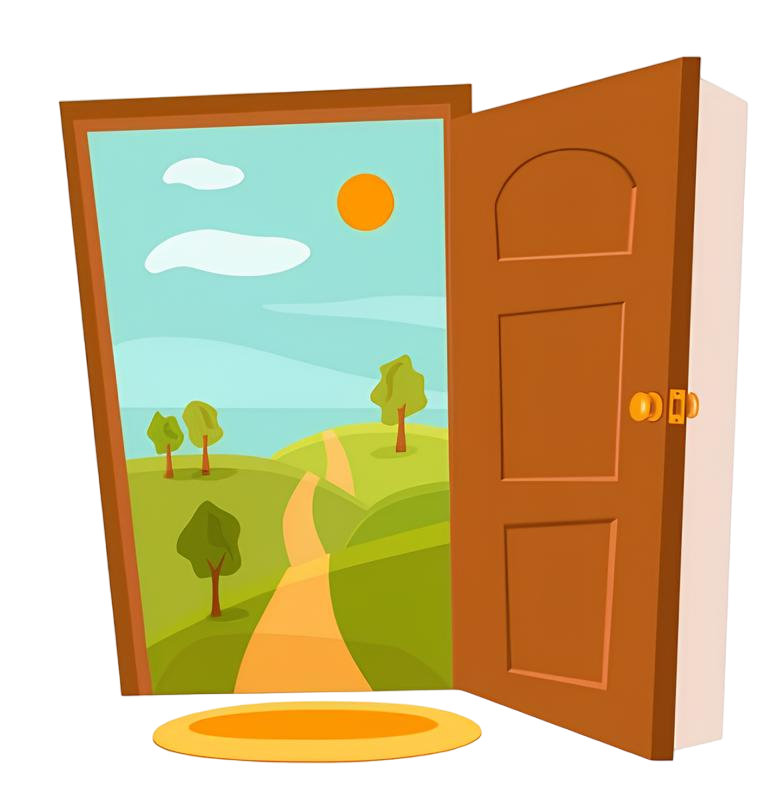
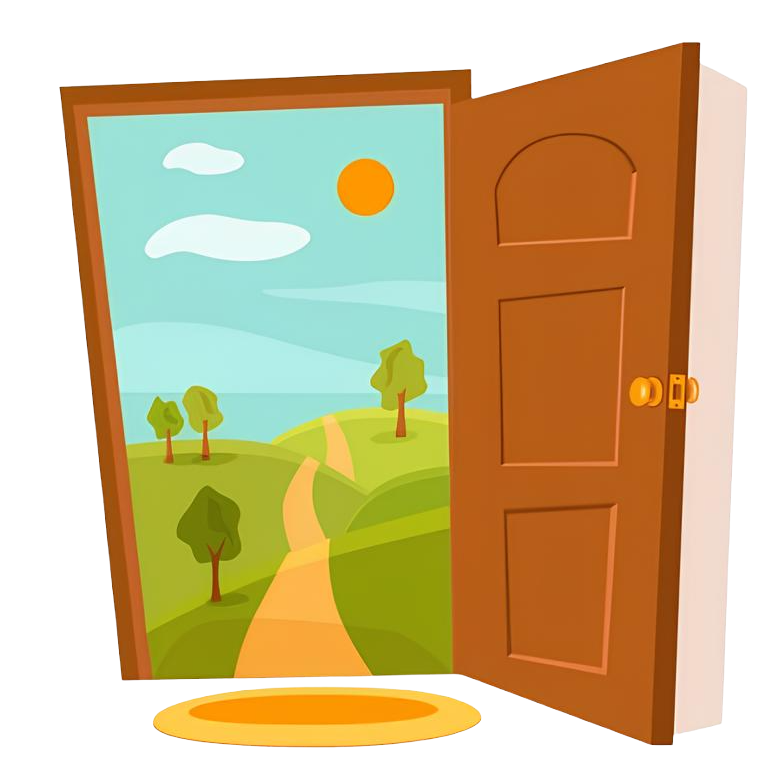
Overview page polished
Finished animations + transitions for the overview page

diff --git a/styles/overview.css b/styles/overview.css
@@ -3,7 +3,15 @@ body {
     font-family: "Patrick Hand", cursive;
     font-weight: 400;
     font-style: normal;
-    background-color: #0999bd;
+    background-color: #3f91a5;
+}
+
+#floor {
+    position: absolute;
+    bottom: 0;
+    background-color: #D2B48C; /* light brown color */
+    height: 20vh;
+    width: 100%;
 }
 
 .bubblegum-sans-regular {
@@ -18,20 +26,107 @@ body {
     justify-content: flex-end; /* Align speech container to the right */
     align-items: flex-start; /* Align speech container to the bottom */
     height: 100vh;
+    pointer-events: none; 
 }
 
 .door-container {
-    display: flex;
-    justify-content: center; /* Center the image horizontally */
-    align-items: center; /* Center the image vertically */
-    width: 60%; /* Adjust the width of the door container */
+    position: absolute;
     height: 100%;
+    min-width: 60%;
 }
 
-.door-image {
-    max-width: 100%;
-    height: auto;
+#door-image {
+    position: absolute;
+    height: 80vh;
+    cursor: pointer;
+    top: 10%;
+    left: 50%;
+    transform: translateX(-50%);
 }
+
+#donovan-image {
+    position: absolute;
+    height: 55vh;
+    bottom: 15%;
+    left: 42%;
+    transform: translateX(-50%);
+    display: none;
+}
+
+.knock {
+    position: absolute;
+    bottom: 70vh;
+    left: 50%;
+    font-size: 30px;
+    font-family: "Bungee", sans-serif;
+    font-weight: 400;
+    font-style: normal;
+    color: #fff;
+    opacity: 0; /* Initially hidden */
+    animation: knockAnimation 3s infinite; /* Apply animation */
+}
+.knock1 {
+    animation-delay: 0s;
+}
+.knock2 {
+    animation: knockAnimation2 3s infinite; /* Apply animation */
+    animation-delay: 0.5s;
+}
+.knock3 {
+    animation: knockAnimation3 3s infinite; /* Apply animation */
+    animation-delay: 1s;
+}
+
+@keyframes knockAnimation {
+    0% {
+        opacity: 0; /* Start with opacity 0 */
+        transform: translate(0, 0); /* Start from top right corner */
+    }
+    10% {
+        opacity: 1; /* Fade in */
+    }
+    40% {
+        opacity: 1; /* Stay visible */
+    }
+    50% {
+        opacity: 0; /* Fade out */
+        transform: translate(100px, -100px); /* Move away from the door */
+    }
+}
+
+@keyframes knockAnimation2 {
+    0% {
+        opacity: 0; /* Start with opacity 0 */
+        transform: translate(0, 0); /* Start from top right corner */
+    }
+    10% {
+        opacity: 1; /* Fade in */
+    }
+    40% {
+        opacity: 1; /* Stay visible */
+    }
+    50% {
+        opacity: 0; /* Fade out */
+        transform: translate(60px, -150px); /* Move away from the door */
+    }
+}
+@keyframes knockAnimation3 {
+    0% {
+        opacity: 0; /* Start with opacity 0 */
+        transform: translate(0, 0); /* Start from top right corner */
+    }
+    10% {
+        opacity: 1; /* Fade in */
+    }
+    40% {
+        opacity: 1; /* Stay visible */
+    }
+    50% {
+        opacity: 0; /* Fade out */
+        transform: translate(130px, -90px); /* Move away from the door */
+    }
+}
+
 
 .speech-container {
     display: flex;
@@ -52,6 +147,7 @@ body {
     flex-direction: column;
     max-height: 90%;
     overflow-y: auto;
+    pointer-events: auto;
 }
 
 
@@ -90,6 +186,8 @@ body {
     font-family: "Patrick Hand", cursive;
     font-weight: 400;
     font-style: normal;
+    pointer-events: auto; 
+    display: none;
 }
 
 .user-input-bubble p {
@@ -107,4 +205,19 @@ body {
     border-top-color: #f0f0f0;
     border-bottom: 0;
     margin-left: -10px;
+}
+
+#continue-button {
+    display: none;
+    background-color: #ffc107;
+    padding: 5px 20px;
+    margin-bottom: 20px;
+    border-radius: 5px;
+    text-decoration: none; /* Remove default link underline */
+    font-family: 'Koulen', sans-serif;
+    color: white; /* Change link color */
+    text-decoration: none; /* Remove default link underline */
+    pointer-events: auto;
+    font-size: 24px;
+    letter-spacing: 2px;
 }

diff --git a/src/overview.js b/src/overview.js
@@ -23,8 +23,14 @@ const userSpeeches = [
 
 const speechColumn = document.getElementById('speech-column');
 const userInputBubble = document.getElementById('user-input');
+const continueButton = document.getElementById('continue-button');
+const doorImage = document.getElementById('door-image');
+const donovanImage = document.getElementById('donovan-image');
 
-let currentSpeechIndex = 0;
+const TEXT_SPEED = 30;
+const TEXT_DELAY = 1000;
+
+let currentSpeechIndex = -1;
 
 function displaySpeech(speechText, isColonelDonovan = true) {
     const speechBubble = document.createElement('div');
@@ -45,7 +51,15 @@ function displaySpeech(speechText, isColonelDonovan = true) {
         if (index < speechText.length) {
             textContainer.textContent += speechText[index];
             index++;
-            setTimeout(revealText, 50); // Adjust the delay between characters (in milliseconds)
+            setTimeout(revealText, TEXT_SPEED); // Adjust the delay between characters (in milliseconds)
+        } else if (isColonelDonovan) {
+            setTimeout(function() {
+                if (currentSpeechIndex < userSpeeches.length) {
+                    userInputBubble.style.display = "block";
+                } else {
+                    continueButton.style.display = "block";
+                }
+            }, TEXT_DELAY);
         }
     };
 
@@ -59,15 +73,31 @@ function colonelResponse() {
 
 function displayUserQuestion() {
     // Here you can handle user input, for now, let's just display a predefined question
+    userInputBubble.style.display = "none";
     const userQuestion = userSpeeches[currentSpeechIndex];
     displaySpeech(userQuestion, false);
     currentSpeechIndex++;
 
     // Trigger Colonel Donovan's response after the user's speech bubble is fully typed out
-    setTimeout(colonelResponse, userQuestion.length * 50 + 1000); // Add a delay of 1 second after user's speech bubble is fully typed out
+    setTimeout(colonelResponse, userQuestion.length * TEXT_SPEED + TEXT_DELAY); // Add a delay of 1 second after user's speech bubble is fully typed out
 }
 
 userInputBubble.addEventListener('click', displayUserQuestion);
 
-// Initial introduction by Colonel Donovan
-colonelResponse();
+doorImage.addEventListener('click', function() {
+    if (currentSpeechIndex != -1) {
+        return;
+    }
+    doorImage.src = "/raw-assets/images{m}{tps}/open-door.png"
+    donovanImage.style.display = "block";
+    currentSpeechIndex++;
+    disableKnocks();
+    colonelResponse();
+});
+
+function disableKnocks() {
+    var knocks = document.querySelectorAll('.knock');
+    knocks.forEach(function(knock) {
+        knock.style.display = 'none';
+    });
+}

diff --git a/overview/index.html b/overview/index.html
@@ -7,25 +7,28 @@
     <link rel="stylesheet" href="/styles/overview.css">
     <link rel="preconnect" href="https://fonts.googleapis.com">
     <link rel="preconnect" href="https://fonts.gstatic.com" crossorigin>
-    <link href="https://fonts.googleapis.com/css2?family=Delius&family=Patrick+Hand&display=swap" rel="stylesheet">
+    <link href="https://fonts.googleapis.com/css2?family=Delius&family=Patrick+Hand&family=Bungee&family=Koulen&display=swap" rel="stylesheet">
 </head>
 <body>
+    <div id="floor"></div>
+    <div class="door-container">
+        <img src="/raw-assets/images{m}{tps}/closed-door.png" alt="Door" id="door-image">
+        <img src="/raw-assets/images{m}{tps}/donovan.png" id="donovan-image">
+        <div class="knock knock1">Knock</div>
+        <div class="knock knock2">Knock</div>
+        <div class="knock knock3">Knock</div>
+    </div>
+
     <div class="container">
-        <div class="door-container">
-            <img src="/raw-assets/images{m}{tps}/closed-door.png" alt="Door" class="door-image">
-        </div>
         <div class="speech-container">
             <div class="speech-column" id="speech-column">
             </div>
             <div class="user-input-bubble" id="user-input">
                 <p>Click here to ask a question...</p>
             </div>
+            <a id="continue-button" href="/history/">Continue to History Page</a>
         </div>
     </div>
-
-    
-     <!-- Link to the History Page -->
-     <a href="history.html">Go to History Page</a>
 
     <script src="/src/overview.js"></script>
 </body>
